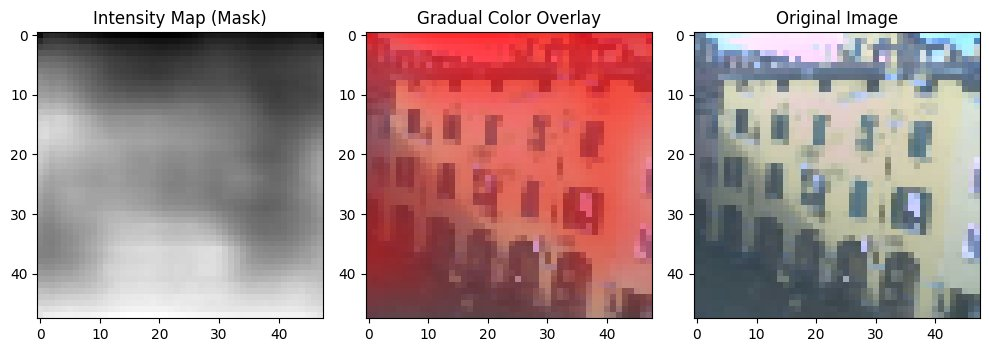
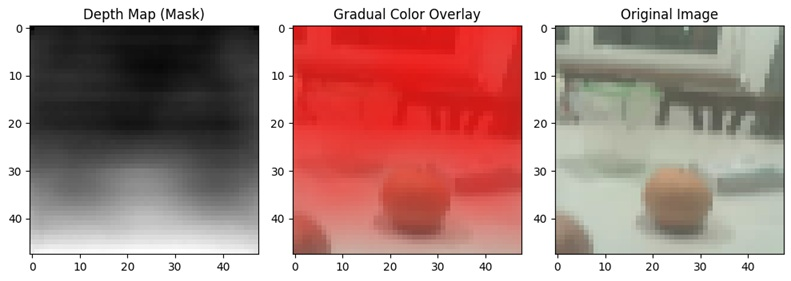
chore: refining README

diff --git a/README.md b/README.md
@@ -42,7 +42,7 @@ The firmware, contained in the `PlatformIO` folder, was developed specifically f
 ### Camera Management and Preprocessing
 
 To ensure optimal input for the neural network, the camera is configured to acquire images at **240x240** resolution. Although the sensor supports higher resolutions, this choice allows for clean integer downsampling.
-The image is reduced to **48x48** (the input required by uPyDnet) using a **5x5 sliding window** algorithm: the mask slides over the original image without overlapping, sampling exclusively the central pixel. This approach reduces computational cost compared to bilinear interpolation while retaining sufficient spatial information for the network.
+The image is reduced to **48x48** (the input required by uPyDnet) using a **5x5 sliding window** algorithm: the mask slides over the original image without overlapping, sampling exclusively the central pixel. This approach reduces computational cost compared to bilinear interpolation, gathering enought information for the network for the fact that we cannod embed lots of information into a 48x48 img shape.
 
 ---
 
@@ -88,7 +88,7 @@ This section describes the firmware compilable via **PlatformIO**.
 ### Folder Structure
 
 * **`test_code`**: Code to validate PSRAM, Camera, and SD Card. *Credits: derived from [Freenove](https://docs.freenove.com/projects/fnk0085/en/latest/) tutorials*.
-* **`OOP_NO_TFLite`**: "Skeleton" version (without neural network inference) for debugging application logic without any overhead due to the compilation of the MicroTFLite library.
+* **`OOP_NO_TFLite`**: "Skeleton", and quite "old", version (without neural network inference) for debugging application logic without any overhead due to the compilation of the MicroTFLite library.
 * **`OOP_TFLite`**: **Main Project**.
 
 ### Setup Instructions (`./OOP_TFLite`)
@@ -96,14 +96,18 @@ This section describes the firmware compilable via **PlatformIO**.
 The definitive source code is in `./PlatformIO/OOP_TFLite`.
 
 0. **Creation:** Create a PlatformIO project (select your board, but this shouldn't be a blocking choice as board specs will be overwritten by the next step), and, when it is done, essentially substitute src dir generated into the PlatformIO project with the content of `./PlatformIO/OOP_TFLite/src`.
+
 1. **Configuration:** Replace the default generated `platformio.ini` with the one present in this folder.
+
 2. **Weight Import:** Copy the generated `.h` and `.cpp` files (from `./model2h/result_to_move`) into `./src/components/neural_model/model_data/`.
-3. **Model Selection:** Go to `config.h` in the `./src` root to activate the macro for the model generated in the previous paragraph (note: it is suggested to change the automatically generated tag if not already done).
+
+3. **Model Selection:** Go to `config.h` in the `./src` root to activate the macro for the model generated in the previous paragraph (note: it is suggested to change the automatically generated tag if not already done, and if you need it).
+
 4. **Pipeline Configuration:** In `./src/config.h`, besides the correct model, you must enable the correct macro:
-* `#define USING_ONNX` (activates 4-channel padding).
-* `#define USING_TORCH` (standard 3-channel input).
+    * `#define USING_ONNX` (activates 4-channel padding).
+    * `#define USING_TORCH` (standard 3-channel input).
 
-
+    You should use ONLY one between those
 
 > **Note:** The project already includes a pre-loaded and functioning model. The steps above are necessary only to update the neural network with a custom one. But otherwise it is enought only point 0 and 1
 
